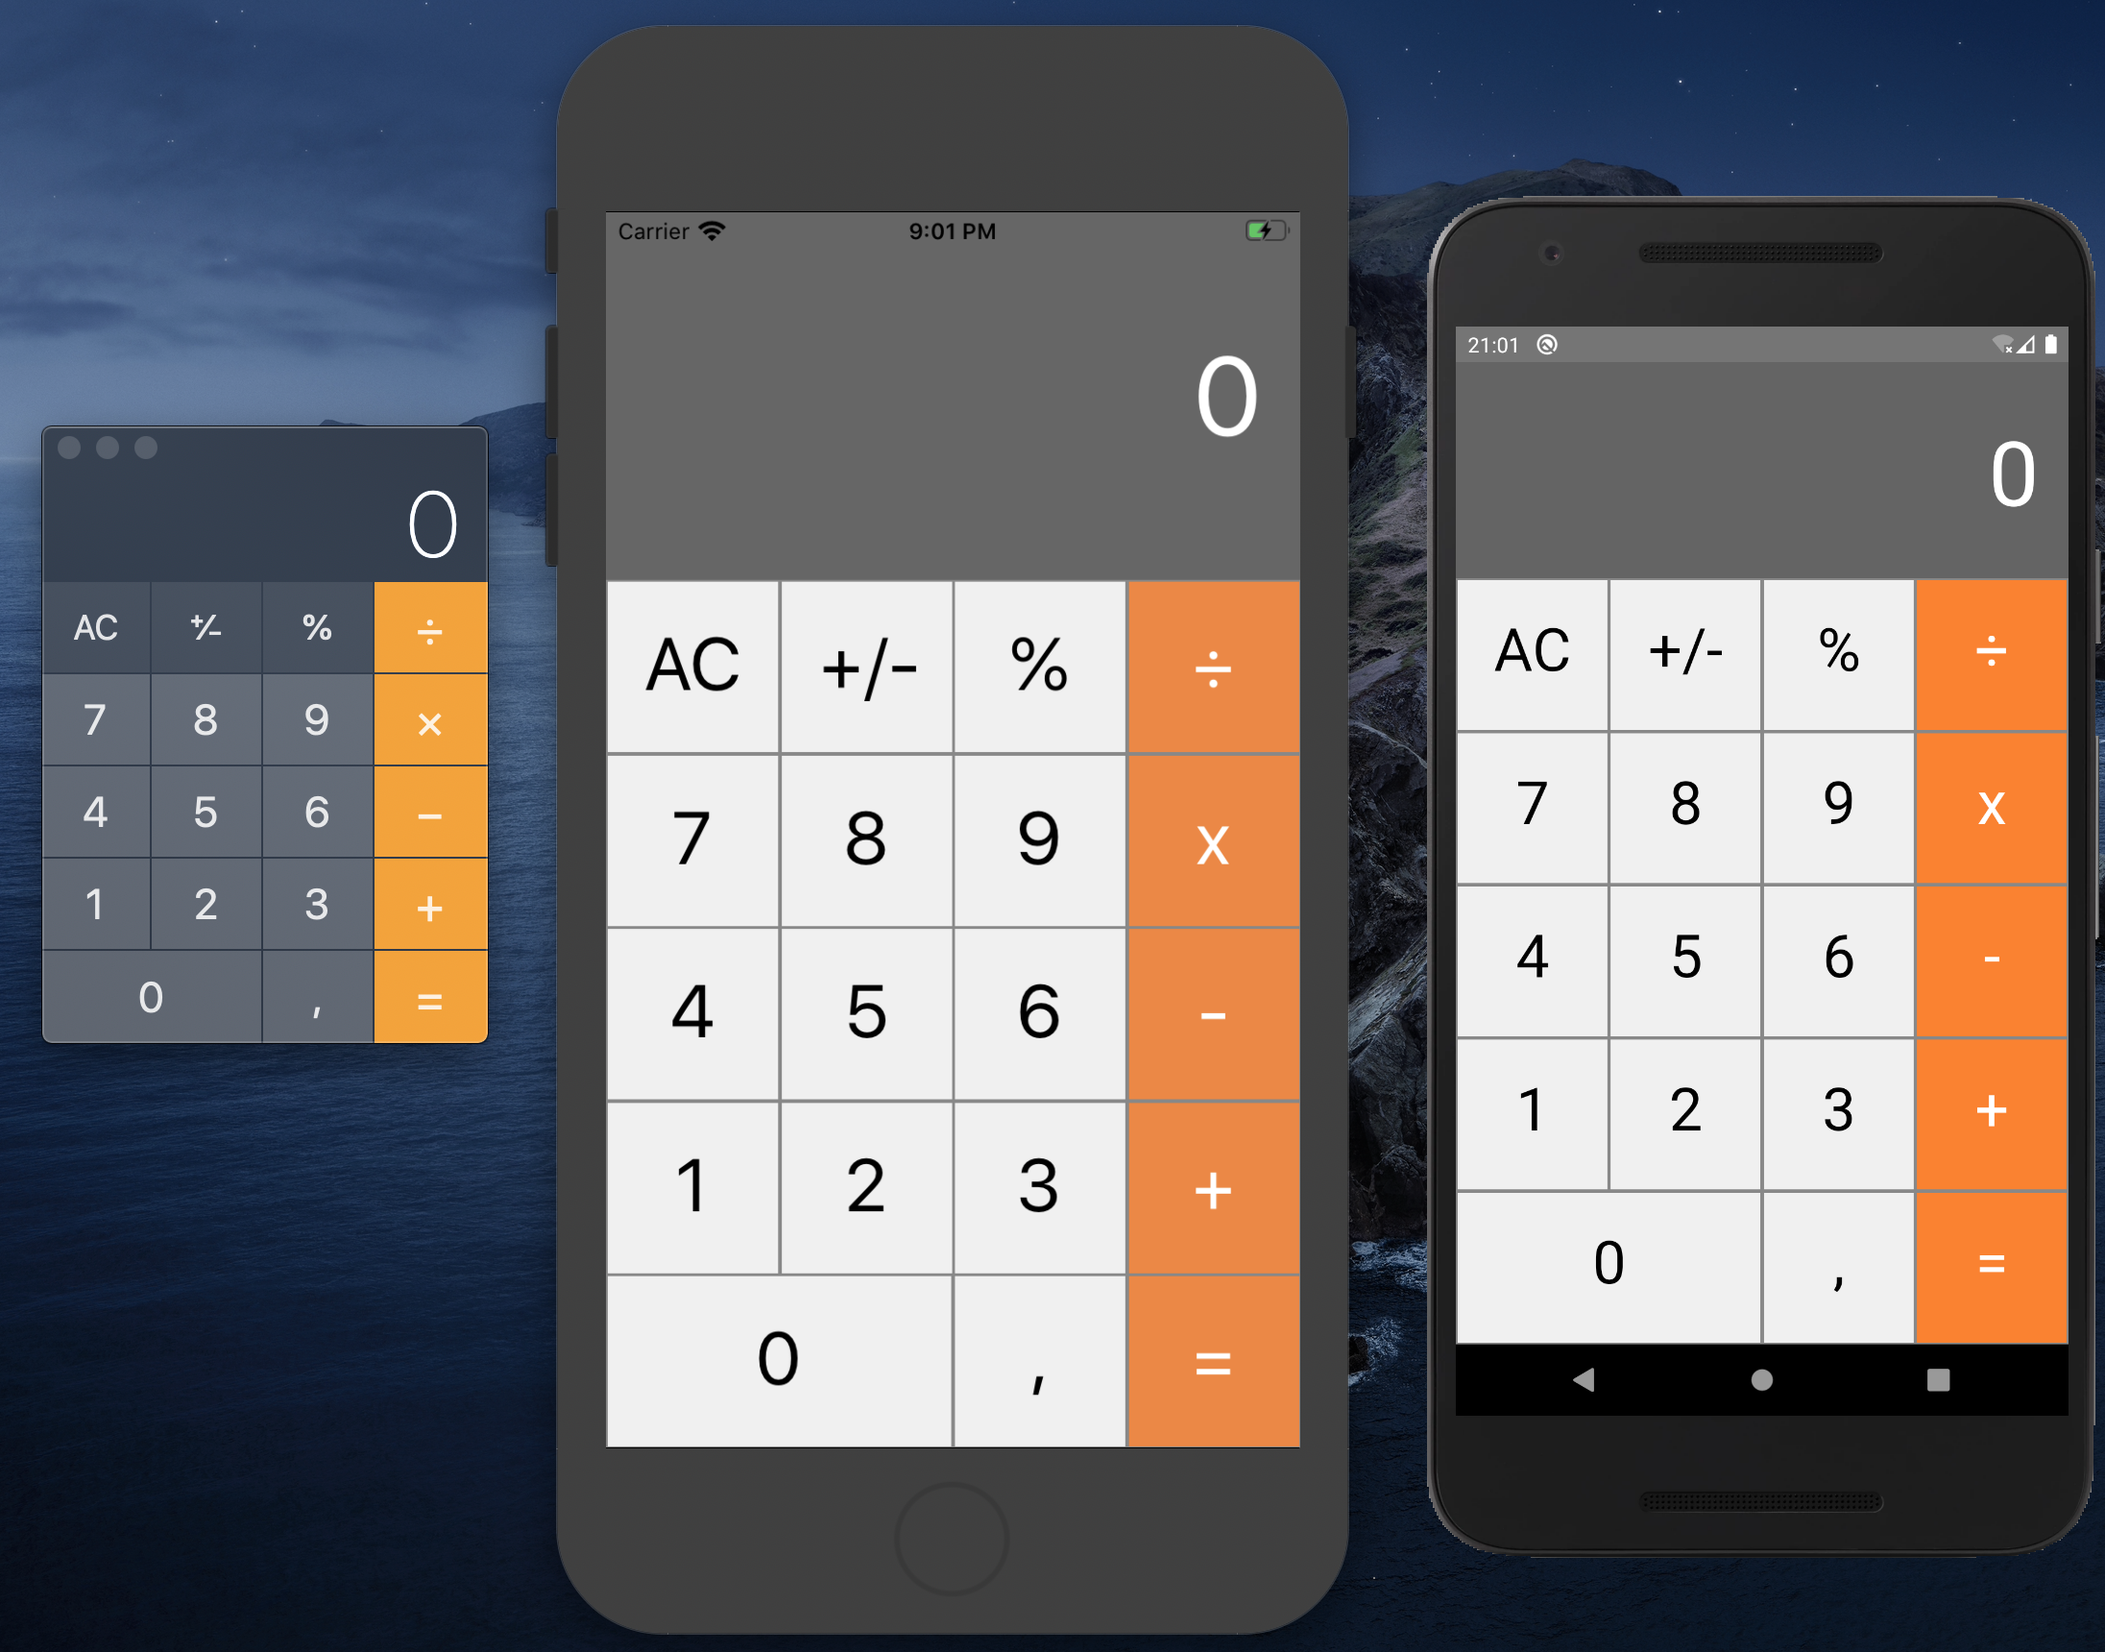
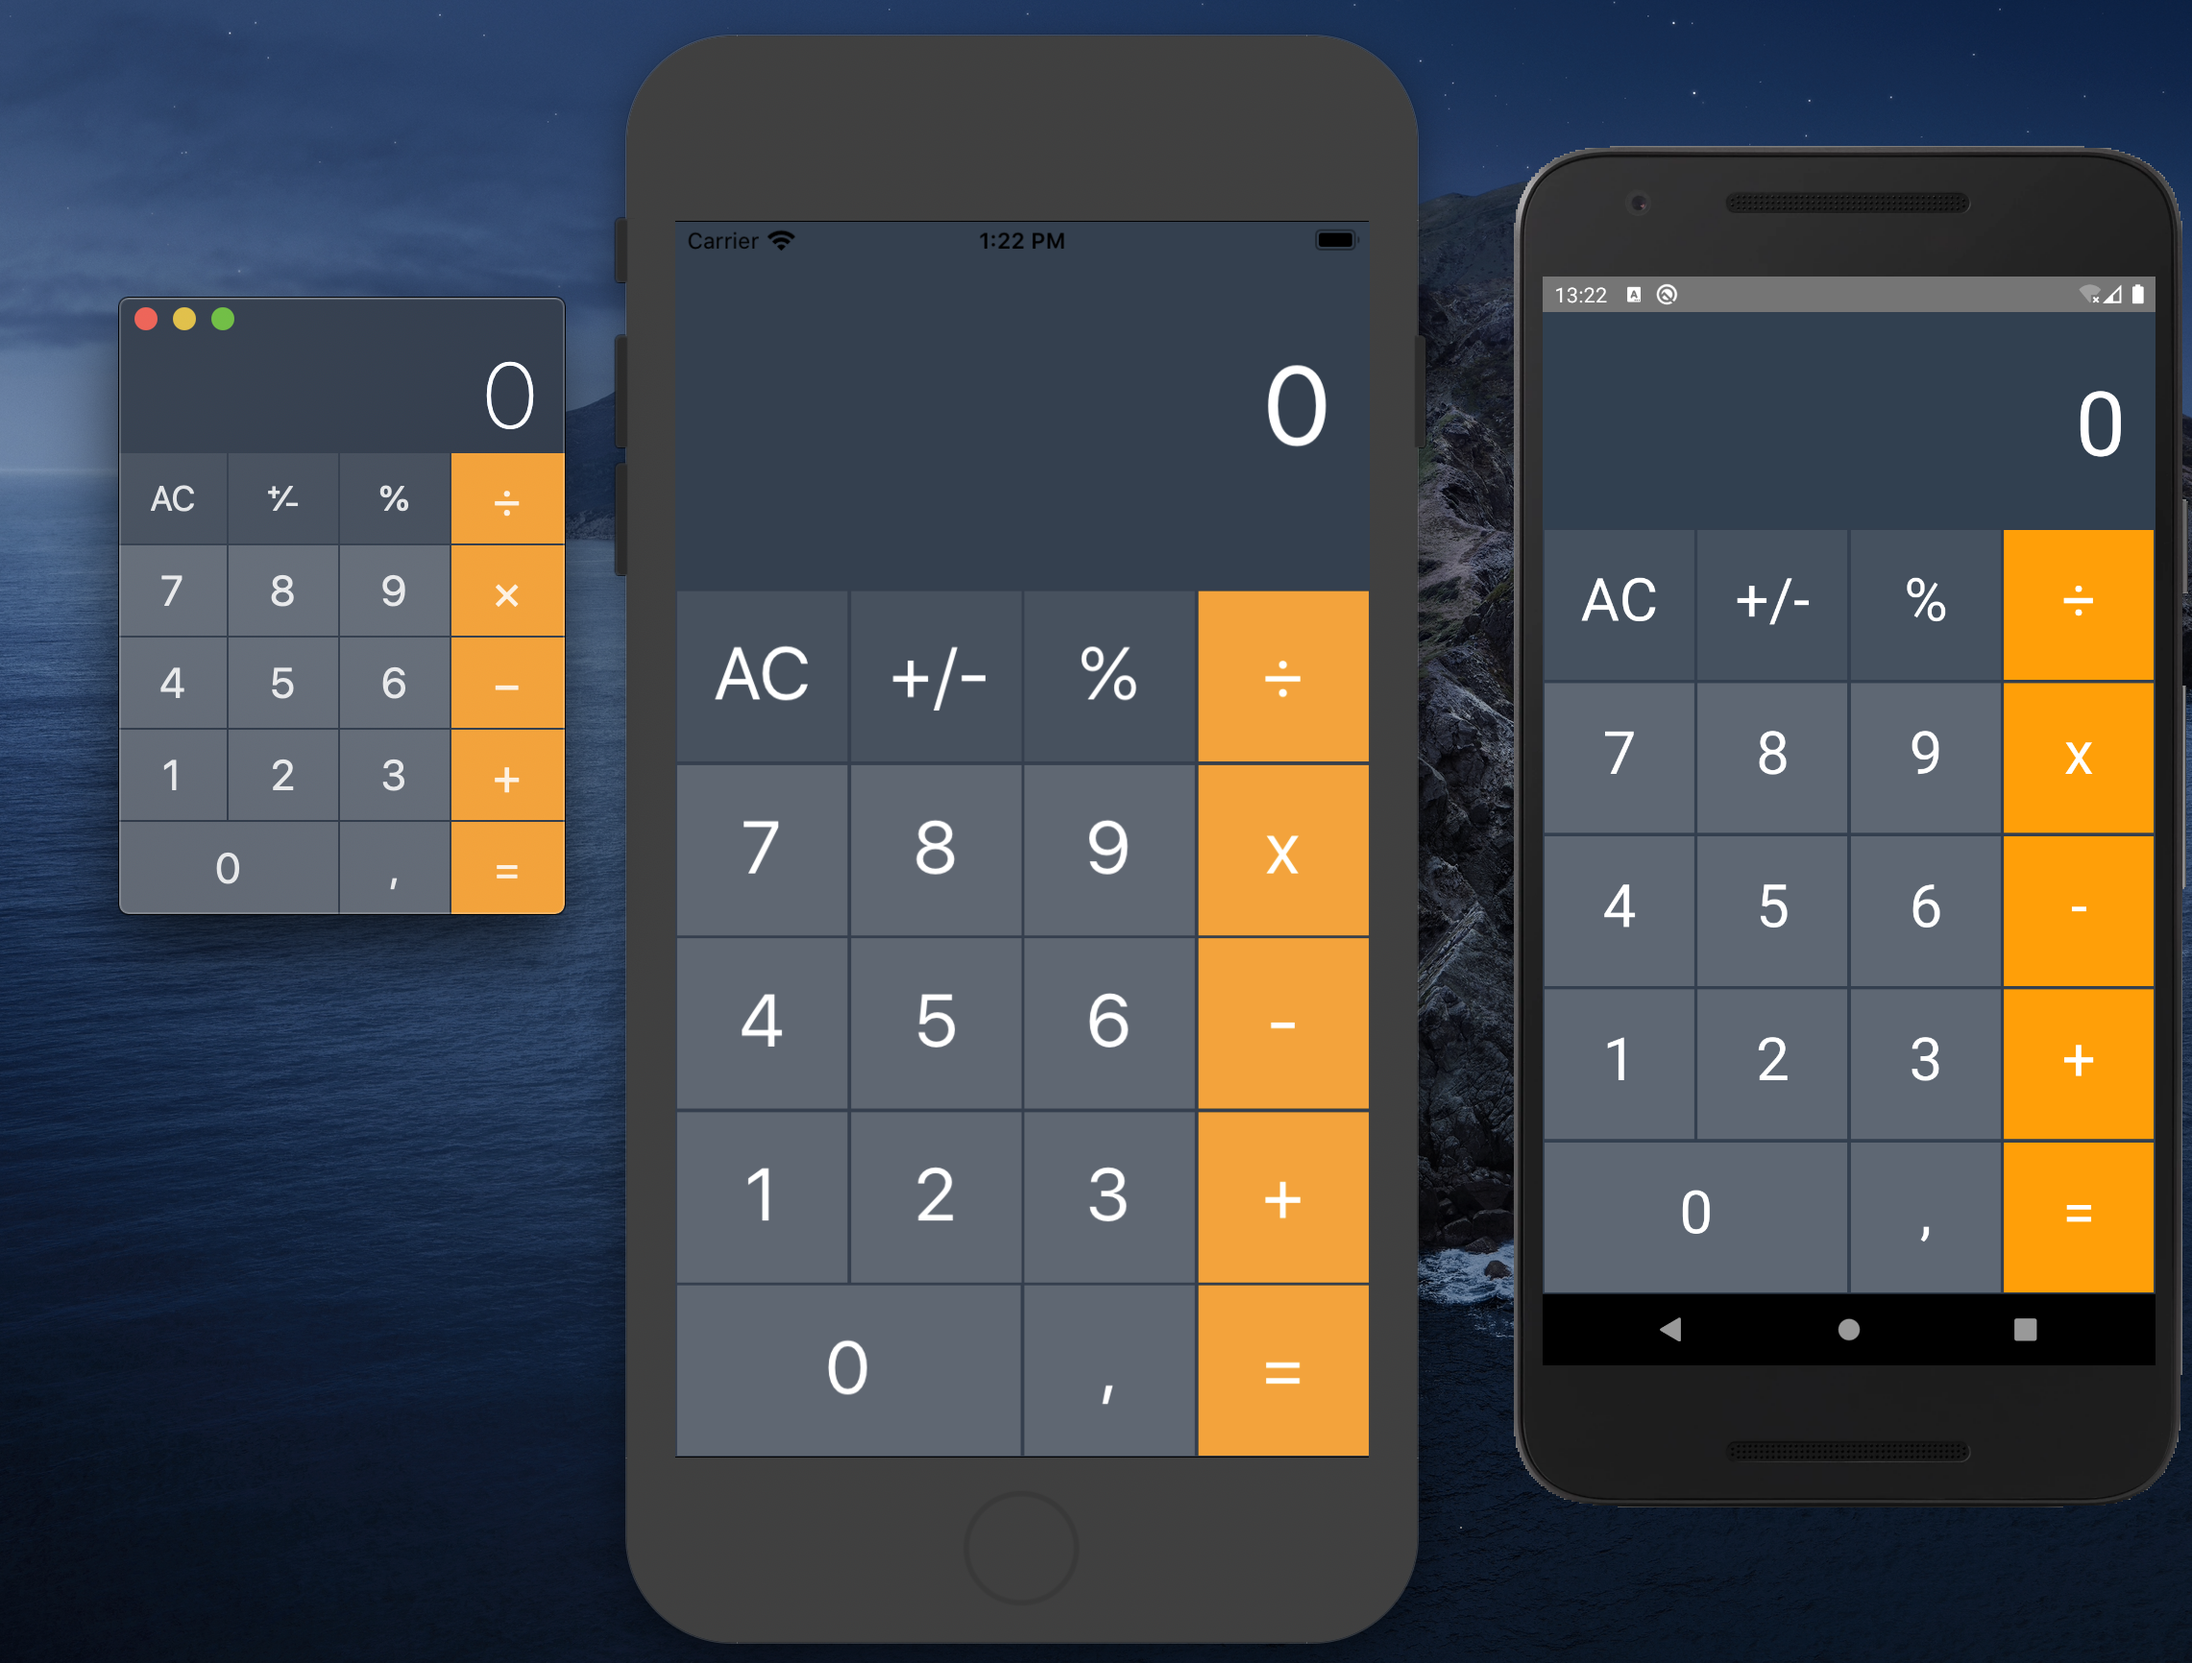
Adicionado todas as funcionalidades e layout da calculadora MacOS

diff --git a/App.js b/App.js
@@ -6,29 +6,10 @@ import Display from './src/components/Display'
 const initialState = {
   displayValue: '0', // Valor inicial do visor
   clearDisplay: false, // Atributo para limpar o display
-  operation: null, // Armazena o operador pressionado
+  operation: null, // Atributo que armazena o operador
   values: [0,0], // Explicação abaixo.
   current: 0, // Posição para adicionar valores no array values. Valores validos (0 e 1)
 }
-
-/**
- * initialState->values: Este array armazena os valores digitados pelo usuário em dois estágios. Exe:
- * 
- * Parte 1
- * A medida que o usuário pressiona os dígitos na calculadora (0~9 e .), estes são concatenados e armazenados em values[0].
- * 
- * Parte 2
- * No momento que o usuário pressiona um operador (+, -, *, /) o ponteiro do values passa de 0 para 1 através do atributo current.
- * Nesse momento values[0] tem um valor armazenado e o operador passa de null para o operador pressionado e o display é limpo.
- * 
- * Parte 3
- * Identico a Parte 1, os valores digitados são concatenados e armazenados em values[1]
- * 
- * Parte 4 
- * Similar a Parte 2, com a diferença que nesse momento podemos receber um novo operador (=) que irá apresentar o resultado. 
- * No caso de outro operador ser pressionado, o cálculo é realizado, armazenado em values[0], enquanto values[1] ficará no 
- * aguardo de um novo valor para aplicar a lógica do operador ou finalizar com o operador (=)
- */
 
 export default class APP extends Component {
 
@@ -58,6 +39,9 @@ export default class APP extends Component {
     // Validação para apenas um ponto. Caso o ponto já esteja em displayValue ele é ignorado 
     if(n === ',' && !clearDisplay && this.state.displayValue.includes(',')) return
 
+    // Insere o zero antes da vírgula quando número inteiro for menor que 1
+    if(n === ',' && clearDisplay) n = '0,'
+
     // Armazena valor corrente quando clearDisplay !== true 
     const currentValue = clearDisplay ? '' : this.state.displayValue
 
@@ -82,6 +66,41 @@ export default class APP extends Component {
     this.setState({ ...initialState })
   }
 
+  // Função realiza o total das operações
+  setTotal = (clearValue) => {
+    
+    const values = [... this.state.values]
+
+    // Opção para zerar o valor anterior da memória quando setTotal e invocada de setOperation
+    values[1] = clearValue === true ? 0 : values[1]
+
+    try{
+      // Eval retorna o resultado da operação setada anteriomente e armazena em values[0]
+      values[0] = parseFloat(eval(`${values[0]} ${this.state.operation} ${values[1]}`).toFixed(9));
+      
+      //Corrige o problema de divisão de 0/0 que retornava NaN 
+      values[0] = Number.isNaN(values[0]) ? 0 : values[0]
+    }
+    // Em caso de falha restaura para o valor anterior
+    catch(e){
+      //console.debug(e)
+      values[0] = this.state.values[0]
+    }
+
+    // Define o estado da calculadora após aplicar a lógica
+    if(clearValue === true)
+    {
+      this.setState({ values })
+    }
+    else
+    {
+      this.setState({
+        displayValue: this.getDisplayValue(values[0]),  
+        values,
+      })
+    }
+  }
+
   // Aplica a operação selecionada (Lógica da calculadora).
   setOperation = operation => {
 
@@ -96,19 +115,19 @@ export default class APP extends Component {
       // Implementamos a lógica da função que muda o sinal do número recebido
       values[current] = operation === '+/-' ? this.reverseSign(values[current]) 
         // Implementada a lógica da porcentagem
-        : values[1] == 0 ? values[current] / 100 : values[0] * values[1] / 100
+        : current == 0 ? values[current] / 100 : values[0] * values[1] / 100
 
       // Define o estado da calculadora após aplicar a lógica
       this.setState({
         displayValue: this.getDisplayValue(values[current]), // Seta o resultado da operação como string para o display 
         operation: (operation === '%' && values[1] == 0) ? null : this.state.operation, // Seta ou redefine o atributo
-        current: current, // Salva a posição do array values
-        clearDisplay: true, // Limpa o display quando digitado os operadores (+, -, *, /)
-        values, // Armasena o array atual no estado
+        current, // Salva a posição do array values
+        values, // Armazena o array atual no estado
       })
     }
     else
     {
+
       // Armazena o operador e incrementa o ponteiro de values através do atributo current
       if(current === 0)
       {
@@ -117,69 +136,12 @@ export default class APP extends Component {
       // Aplica a lógica ao operador armazenado na etapa anterior no array values
       else
       {
-        // Inicia constantes para aplicação da lógica
-        const equals = operation === '='
-        //const values = [... this.state.values]
-
-        // Eval retorna o resultado da operação setada anteriomente e armazena em values[0]
-        try{
-          // console.debug(eval(`${values[0]} ${this.state.operation} ${values[1]}`));
-          // console.debug(parseFloat(eval(`${values[0]} ${this.state.operation} ${values[1]}`).toFixed(9)));
-          
-          /**
-           * #############################
-           * ######## Problema #1 ########
-           * #############################
-           * 
-           * Ao realizar soma ou subtração com números decimais o javascript apresenta problema na precisão.
-           * 
-           * *** Deprecated ***
-           * values[0] = eval(`${values[0]} ${this.state.operation} ${values[1]}`)
-           * 
-           * Isso ocorre porque os valores são transformados em strings para utilização na função eval.
-           * O Javascript tem esse problema de precisão quando realiza somas de strings. Esse probela 
-           * poderá ser testado no console de qualquer navegador.
-           * 
-           * Exe #1: 
-           * '5.3' + '0.6' = 5.8999999999999995
-           * 5.3 + 0.6 = 5.9
-           * 
-           * Exe #2: 
-           * '5.6' - '0.2' = 5.3999999999999995 
-           * 5.6 - 0.2 = 5.4 
-           * 
-           */
-
-          /**
-           * #############################
-           * ######## Melhoria #1 ########
-           * #############################
-           * 
-           * O Problema #1 foi solicionado com a adição do toFixed(9) para precisão com a quantidade de dígitos 
-           * possíveis no visor. 
-           *  
-           * (5.3 + 0.6).toFixed(9) = "5.900000000"
-           * 
-           * E posteriormente a introdução do parseFloat() que irá ignorar os zeros a direita retornando: 
-           * parseFloat("5.900000000") = 5.9
-           */
-
-          values[0] = parseFloat(eval(`${values[0]} ${this.state.operation} ${values[1]}`).toFixed(9));
-        }
-        // Em caso de falha restaura para o valor anterior
-        catch(e){
-          console.debug(e)
-          values[0] = this.state.values[0]
-        }
-
-        // Zera values[1] após aplicação do operador acima, estando apto a receber nova sequencia de digitos
-        values[1] = 0
+        // Zera o values[1] quando o usuário clica em uma operação (+, -, *, /, %, +/-) e values[1] não está zerada
+        this.setTotal(true)
 
         // Define o estado da calculadora após aplicar a lógica
         this.setState({
-          displayValue: this.getDisplayValue(values[0]), // Seta o resultado da operação como string para o display 
-          operation: equals ? null : operation, // Seta ou redefine o atributo
-          current: equals ? 0 : 1, // Salva a posição do array values
+          operation: operation, // Seta ou redefine o atributo
           clearDisplay: true, // Limpa o display quando digitado os operadores (+, -, *, /)
           values, // Armasena o array atual no estado
         })
@@ -192,9 +154,9 @@ export default class APP extends Component {
       <View style={styles.container}>
         <Display value={this.state.displayValue} />
         <View style={styles.buttons}>
-          <Button label='AC'  onClick={this.clearMemory} ></Button>
-          <Button label='+/-' onClick={this.setOperation} ></Button>
-          <Button label='%'   onClick={this.setOperation} ></Button>
+          <Button label='AC'  onClick={this.clearMemory} top ></Button>
+          <Button label='+/-' onClick={this.setOperation} top ></Button>
+          <Button label='%'   onClick={this.setOperation} top ></Button>
           <Button label='÷'   onClick={this.setOperation} operation ></Button>
           <Button label='7'   onClick={this.addDigit} ></Button>
           <Button label='8'   onClick={this.addDigit} ></Button>
@@ -210,7 +172,7 @@ export default class APP extends Component {
           <Button label='+'   onClick={this.setOperation} operation ></Button>
           <Button label='0'   onClick={this.addDigit} double ></Button>
           <Button label=','   onClick={this.addDigit} ></Button>
-          <Button label='='   onClick={this.setOperation} operation ></Button>
+          <Button label='='   onClick={this.setTotal} operation ></Button>
         </View>
       </View>
     )

diff --git a/src/components/Button.js b/src/components/Button.js
@@ -12,14 +12,24 @@ const style = StyleSheet.create({
         height: Dimensions.get('window').width / 4,
         width: Dimensions.get('window').width / 4,
         padding: 20,
-        backgroundColor: '#f0f0f0',
+        color: '#fff',
+        backgroundColor: '#5E6773',
         textAlign: 'center',
         borderWidth: 1,
-        borderColor: '#888',
+        borderColor: '#333F4F',
+
+        justifyContent: 'center',
+        
+        alignItems: 'flex-end',  
+    },
+    activeButton: {
+        borderWidth: 2,
+    },
+    topButton: {
+        backgroundColor: '#45515F',
     },
     operationButton: {
-        color: '#fff',
-        backgroundColor: '#fa8231',
+        backgroundColor: '#ff9f08',
     },
     buttonDouble: {
         width: Dimensions.get('window').width / 2,
@@ -36,6 +46,7 @@ export default props => {
     if(props.double) StyleButton.push(style.buttonDouble)
     else if(props.triple) StyleButton.push(style.buttonTriple)
     else if(props.operation) StyleButton.push(style.operationButton)
+    else if(props.top) StyleButton.push(style.topButton)
     
     return (
         <TouchableHighlight onPress={() => props.onClick(props.label)} >

diff --git a/src/components/Display.js b/src/components/Display.js
@@ -10,7 +10,7 @@ const styles = StyleSheet.create({
         flex: 1,
         padding: 20,
         justifyContent: 'center',
-        backgroundColor: 'rgba(0,0,0,0.6)',
+        backgroundColor: '#314050',
         alignItems: 'flex-end',   
     },
     displayValue: {

diff --git a/README.md b/README.md
@@ -1,16 +1,20 @@
 # Calculadora com React-Native
 <br /><br />
-#### Versão 2.0 (Em Desenvolvimento)
+#### Versão 2.0
 
 ![N|Solid](https://raw.githubusercontent.com/mfabiodias/react-native-simple-calculator/master/src/images/layout/calculator-layout-v2_0.png)
 
-  - Novo Layout com todas funcionalidades da calculador do MacOS
-  - Substituição do operador / -> ÷
-  - Substituição do operador * -> x
-  - Substituição do caracter . -> ,
+  - Adicionado Layout com todas funcionalidades da calculador MacOS
+  - Substituição do operador (/) por (÷)
+  - Substituição do operador (*) por (x)
+  - Substituição do caracter (.) por (,)
   - Adição da funcionalidade de porcentagem (%)
-  - Adição da funcionalidade mudança de sinal (+/-) 
-  - Adição da funcionalidade de operador ativo ao realizar uma operação 
+  - Adição da funcionalidade de mudança de sinal (+/-) 
+  - Adição da funcionalidade de operador ativo ao realizar uma operação
+  - Adição de bloqueio de tela para dispositovo não entrar no modo paisagem. 
+  - Correção da divisão de 0/0 que retornava NaN 
+  - Adição do zero antes da vírgula quando número for menor que 1
+  - Auto operação adicionada. Exemplo: Sabemos que 2 + 2 = 4, mas se pressionado novamente o operador (=) ele soma o resultado obtido anteriormente (4) e soma com (2) novamente, depois 6 + 2 e assim sucessivamente. A auto operação funciona em todas as operações inclusas (+, -, x, ÷ e %) na versão 2.0
 
 Modificações e melhorias da versão 2.0 desenvolvida por Fabio Messias Dias.<br /><br />
 Email: [mfabiodias@gmail.com](mailto:mfabiodias@gmail.com)<br />
